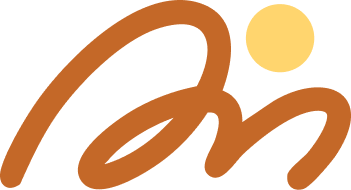
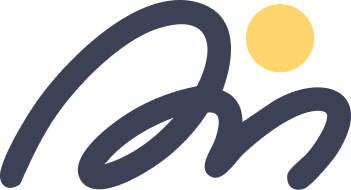
style: final branding overhaul (Light: Creme/Orange/Blue, Dark: Graphite/Blue/Creme)

diff --git a/app/globals.css b/app/globals.css
@@ -7,21 +7,21 @@
     /* ─────────────────────────────────────────
        SUPERFÍCIES E FUNDOS
     ───────────────────────────────────────── */
-    --background: 60 5% 96%; /* Stone #F5F5F4 */
-    --foreground: 0 0% 11%;  /* Graphite #1C1C1C */
-    --surface: 0 0% 100%;    /* White #FFFFFF */
-    --surface-muted: 60 5% 92%;
-    --border: 0 0% 90%;
-    --border-strong: 0 0% 80%;
+    --background: 40 10% 96%;   /* Creme Papel #F5F4F0 */
+    --foreground: 0 0% 11%;     /* Graphite #1C1C1C */
+    --surface: 0 0% 100%;       /* White #FFFFFF para contraste no creme */
+    --surface-muted: 40 10% 92%;
+    --border: 40 10% 88%;
+    --border-strong: 40 10% 80%;
 
     /* ─────────────────────────────────────────
        MARCA
     ───────────────────────────────────────── */
     --brand-primary: 23 62% 49%;       /* Orange #C86C31 */
-    --brand-primary-hover: 23 62% 44%; /* Darker Orange */
-    --brand-secondary: 90 24% 29%;     /* Olive #4A5C38 */
+    --brand-primary-hover: 23 62% 44%; 
+    --brand-secondary: 90 24% 29%;     /* Olive */
     --brand-accent: 35 78% 62%;
-    --brand-highlight: 23 62% 49%;     /* Orange for Light mode CTA */
+    --brand-highlight: 23 62% 49%;     /* Laranja para CTAs */
 
     /* ─────────────────────────────────────────
        TEXTO
@@ -29,7 +29,7 @@
     --text-primary: 0 0% 11%;
     --text-secondary: 0 0% 35%;
     --text-muted: 240 5% 50%;
-    --text-inverse: 0 0% 100%;
+    --text-inverse: 223 19% 30%;       /* Azul Grafite para escrita no Laranja */
 
     /* ─────────────────────────────────────────
        ESTADOS
@@ -91,24 +91,24 @@
   ───────────────────────────────────────── */
   .dark {
       /* Uses Graphite (#1C1C1C) as the base surface, darker graphite for background */
-      --background: 0 0% 7%;
-      --foreground: 60 5% 96%; /* Stone for text */
-      --surface: 0 0% 11%;    /* Graphite */
-      --surface-muted: 0 0% 15%;
-      --border: 0 0% 18%;
-      --border-strong: 0 0% 25%;
+      --background: 223 20% 10%; /* Azul Grafite Escuro */
+      --foreground: 40 85% 94%;  /* Creme para texto */
+      --surface: 223 20% 14%;    /* Ligeiramente mais claro que o fundo */
+      --surface-muted: 223 15% 18%;
+      --border: 223 15% 22%;
+      --border-strong: 223 15% 30%;
 
       /* Brand colors differentiated in dark mode */
-      --brand-primary: 223 19% 25%;       /* Graphite Blue (from logo) */
-      --brand-primary-hover: 223 19% 30%;
+      --brand-primary: 223 35% 45%;       /* Azul Grafite */
+      --brand-primary-hover: 223 35% 50%;
       --brand-secondary: 90 24% 29%;
-      --brand-accent: 40 85% 75%;        /* Creme (from logo circle) */
-      --brand-highlight: 40 85% 75%;     /* Creme for Dark mode CTA */
+      --brand-accent: 40 85% 75%;        
+      --brand-highlight: 223 45% 55%;     /* Azul Vibrante para CTAs */
 
-      --text-primary: 0 0% 98%;
-      --text-secondary: 240 5% 70%;
-      --text-muted: 240 5% 50%;
-      --text-inverse: 240 10% 8%;
+      --text-primary: 40 85% 94%;        /* Creme */
+      --text-secondary: 223 15% 75%;
+      --text-muted: 223 10% 60%;
+      --text-inverse: 40 85% 75%;        /* Creme para escrita no Azul */
 
       --success: 145 45% 45%;
       --warning: 35 80% 60%;
